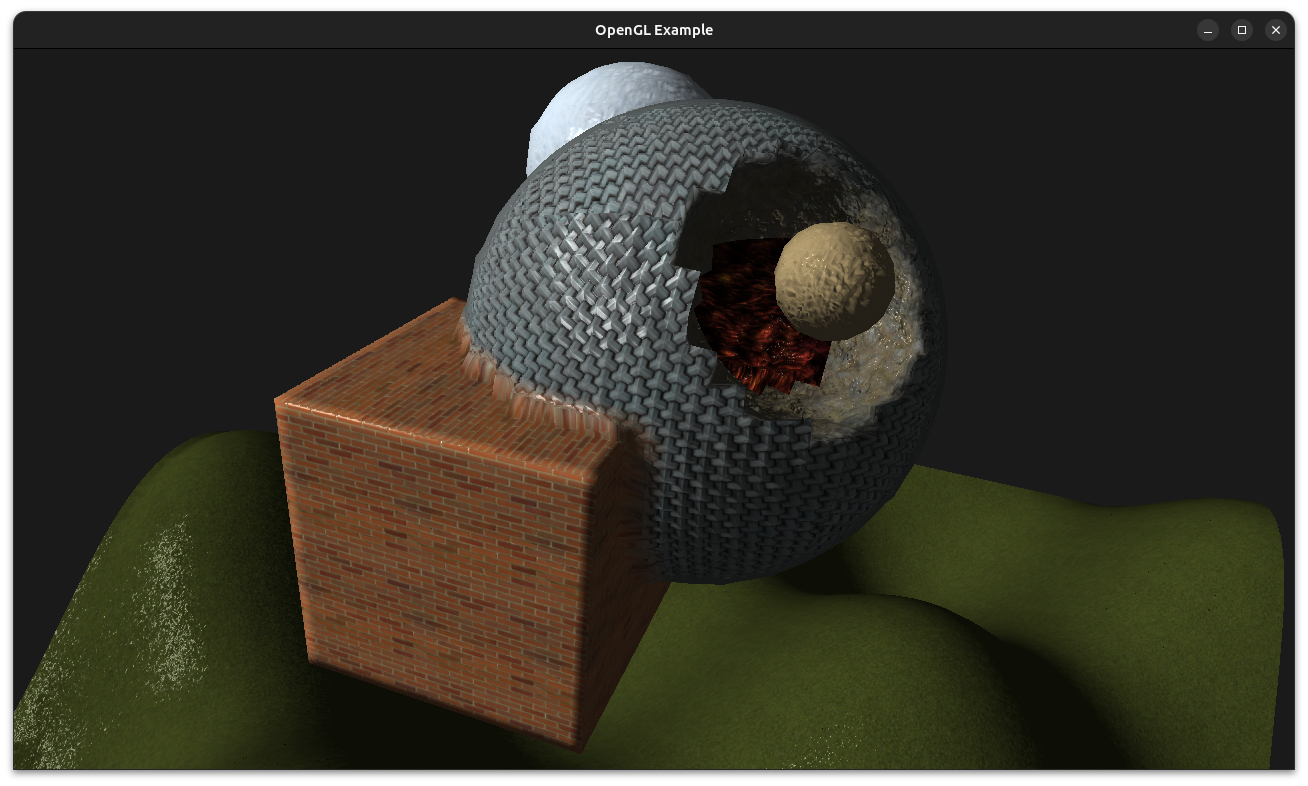
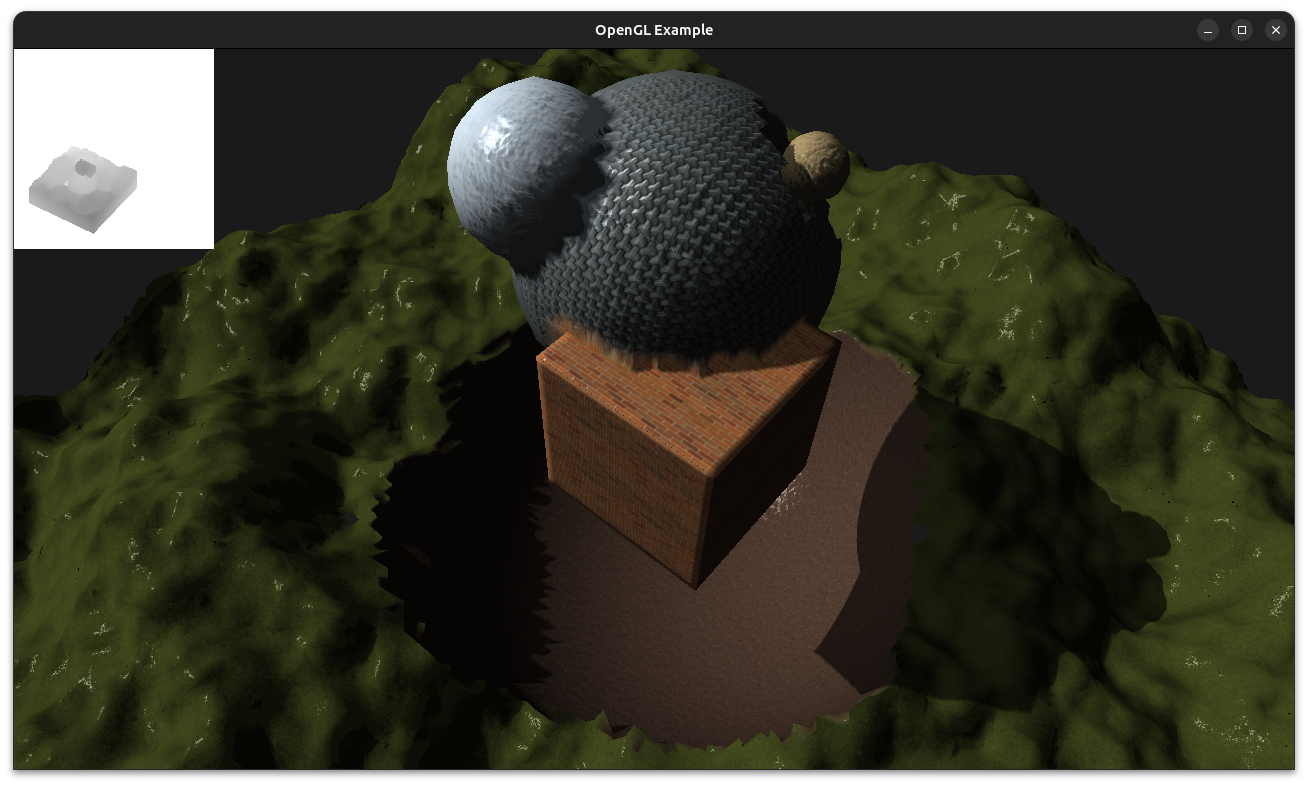
Can I call it stable?

diff --git a/main.cpp b/main.cpp
@@ -438,13 +438,13 @@ public:
 		HeightMap map(new PerlinSurface(), glm::vec3(-100,-100,-100),glm::vec3(100,0,100), tree->minSize);
 
 		tree->add(new HeightMapContainmentHandler(&map, textures[2], textures[7]));
+		tree->del(new SphereContainmentHandler(BoundingSphere(glm::vec3(00,-30,0),50), textures[7]));
 		tree->add(new SphereContainmentHandler(BoundingSphere(glm::vec3(0,0,0),20), textures[6]));
 		tree->add(new SphereContainmentHandler(BoundingSphere(glm::vec3(-11,11,11),10), textures[5]));
 		tree->del(new SphereContainmentHandler(BoundingSphere(glm::vec3(11,11,-11),10), textures[4]));
 		tree->add(new BoxContainmentHandler(BoundingBox(glm::vec3(0,-24,0),glm::vec3(24,0,24)),textures[8]));
 		tree->del(new SphereContainmentHandler(BoundingSphere(glm::vec3(4,4,-4),8), textures[1]));
 		tree->add(new SphereContainmentHandler(BoundingSphere(glm::vec3(11,11,-11),4), textures[3]));
-		tree->del(new SphereContainmentHandler(BoundingSphere(glm::vec3(0,75,0),50), textures[7]));
 
 		tesselator = new Tesselator(tree);
 		tree->iterate(tesselator);
@@ -584,7 +584,7 @@ public:
 		glUniform1ui(lightEnabledLoc, 1);
 		glUniform1ui(triplanarEnabledLoc, 1);
 		glUniform1ui(parallaxEnabledLoc, 1);
-		glUniform1ui(debugEnabledLoc, 0);
+		glUniform1ui(debugEnabledLoc, 1);
 		
 		glPatchParameteri(GL_PATCH_VERTICES, 3); // Define the number of control points per patch
 

diff --git a/math/Octree.cpp b/math/Octree.cpp
@@ -128,7 +128,7 @@ OctreeNode * addAux(Octree * tree, ContainmentHandler * handler, OctreeNode * no
 		Vertex vertex(cube.getCenter());
 		node = new OctreeNode(vertex);
 	}
-	else if(node->mask == 0xff) {
+	else if(node->solid == ContainmentType::Contains) {
 		return node;
 	}
 
@@ -161,6 +161,7 @@ void split(OctreeNode * node, BoundingCube cube) {
 	for(int i=0; i <8 ; ++i) {
 		BoundingCube subCube = getChildCube(cube,i);
 		node->children[i] = new OctreeNode(subCube.getCenter());
+		node->children[i]->solid = node->solid;
 		node->children[i]->mask = node->mask;
 	}	
 }
@@ -182,11 +183,12 @@ OctreeNode * delAux(Octree * tree,  ContainmentHandler * handler, OctreeNode * n
 			return NULL;
 		}
 		if(node!= NULL) {
-			if(node->mask == 0xff && height != 0) {
+			// TODO: problem here
+			if(node->solid == ContainmentType::Contains && isIntersecting && height != 0) {
 				split(node, cube);
 			}
 
-			if((node->mask == 0xff || node->mask == 0x00) && isIntersecting) {
+			if(node->solid != ContainmentType::Intersects && isIntersecting) {
 				node->vertex = handler->getVertex(cube, check);
 				node->vertex.normal = -node->vertex.normal;
 			}
